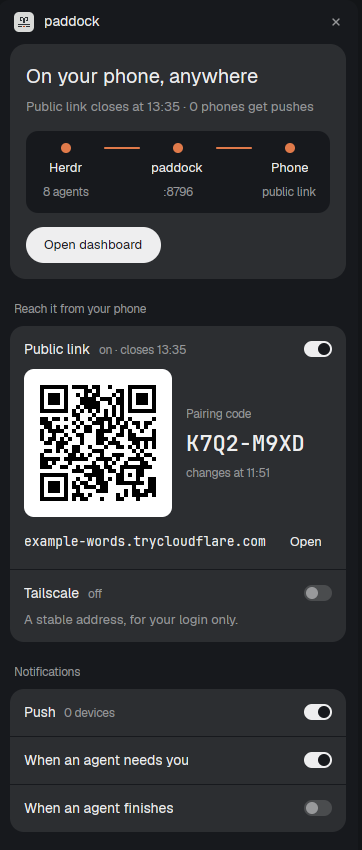
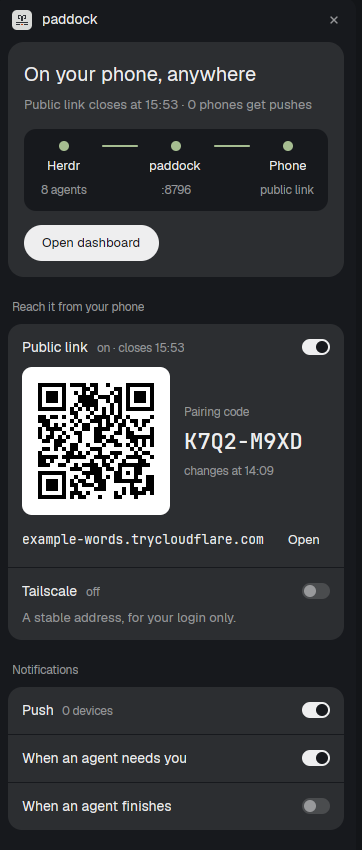
fix: live routes in the Herdr panel are green, and the gallery phone shows agents at work
The route strip, the tab-bar dot and the backend dots were lit in paddock's
coral, which read as a warning beside Herdr's own status dots. They now use
the theme's green (`ansi2`), the colour Herdr's Settings gives a connected
machine, so they follow the theme too.

The gallery card's phone was a single permission prompt. It is now the
agent list from `paddock --demo`: one prompt, two finished and two working
agents, so a visitor sees which agents are running. The panel shot is
retaken with the green routes, from a fake `paddock status --json`.

diff --git a/herdr/paddock/mods/paddock/main.js b/herdr/paddock/mods/paddock/main.js
@@ -87,10 +87,10 @@ function opener() {
 // Herdr's theme tokens, in the "true-black flat" app style: elevation by lightness alone (cards on
 // `raised`, what sits inside them sunk back to `background`; `surface` is the ground itself in some
 // themes, so it is not a step), no borders and no shadows on panels, the primary action made
-// primary by inversion (`solid` on `solid_foreground`), and ONE data hue: paddock's coral, the lit
-// rail of its mark, on the routes that are live and on nothing else.
+// primary by inversion (`solid` on `solid_foreground`), and ONE data hue: the theme's own green
+// (`ansi2`) on the routes that are live and on nothing else. Not paddock's coral, which read as a
+// warning, and not the theme's `done`, which is blue in some themes: live means "go".
 
-const LIVE = "#e07a4a";
 const icon = (name, size, color) => svg(`mods/paddock/${name}.svg`).size(size).flex_none().text_color(color);
 const dot = (color, size = 8) => div().w(size).h(size).flex_none().rounded_full().bg(color);
 
@@ -186,14 +186,14 @@ function qr(rows, cell = 4) {
 
 /**
  * The route a phone takes to the agents: Herdr, then paddock, then the phone. A segment is lit in
- * paddock's coral when it carries traffic, so "can my phone reach them?" is read before any word.
+ * the theme's green when it carries traffic, so "can my phone reach them?" is read before any word.
  */
 function route(t, nodes, links) {
   const node = ([label, caption, live]) => v_flex().flex_none().items_center().gap(4).w(76)
-    .child(dot(live ? LIVE : t.dim, 10))
+    .child(dot(live ? t.ansi2 : t.dim, 10))
     .child(div().text_size(S().body).font_weight(500).text_color(live ? t.foreground : t.muted).child(label))
     .child(div().text_size(S().meta).text_color(t.muted).truncate().child(caption));
-  const link = (live) => div().flex_1().h(2).mt(4).rounded_full().bg(live ? LIVE : t.input);
+  const link = (live) => div().flex_1().h(2).mt(4).rounded_full().bg(live ? t.ansi2 : t.input);
   return h_flex().items_start().px(2)
     .child(node(nodes[0])).child(link(links[0])).child(node(nodes[1])).child(link(links[1])).child(node(nodes[2]));
 }
@@ -203,7 +203,7 @@ function route(t, nodes, links) {
 function tabButton(t) {
   const node = find(layout(), PANEL), on = node && !node.hidden;
   const state = shared(STATE_KEY);
-  const color = state === "running" ? LIVE : state === "unknown" ? t.blocked : t.dim;
+  const color = state === "running" ? t.ansi2 : state === "unknown" ? t.blocked : t.dim;
   return h_flex().size_full().pr(10).items_center().justify_end().bg(t.chrome)
     .child(h_flex().id("toggle-paddock").h(26).px(8).gap(6).flex_none().items_center().rounded(6)
       .text_size(12).bg(on ? t.selected : t.chrome).text_color(on ? t.foreground : t.muted)
@@ -637,7 +637,7 @@ export default class Paddock extends View {
     const bridge = this.settings?.bridge?.enabled === true;
     const latest = h.latestKnown, current = h.version;
     const update = latest && current && latest !== current && !current.startsWith("0.0.0");
-    const backend = (on, label) => h_flex().gap(6).items_center().child(dot(on ? LIVE : t.dim, 6))
+    const backend = (on, label) => h_flex().gap(6).items_center().child(dot(on ? t.ansi2 : t.dim, 6))
       .child(div().text_size(S().body).text_color(on ? t.foreground : t.muted).child(label));
     return group(t, "paddock", [
       setting(t, { id: "bridge", title: "MCP bridge",

diff --git a/scripts/herdr-mod-preview.html b/scripts/herdr-mod-preview.html
@@ -7,7 +7,8 @@
 
   Every picture in it is synthetic: the panel is docs/images/herdr-panel.png
   (the mod reading a fake `paddock status --json` and `paddock --demo`), the
-  phone is the README's demo screenshot. No live session appears here.
+  phone is `paddock --demo` at 440x994, scrolled to one prompt, two finished
+  and two working agents (docs/images/09-agents-mixed.png). No live session appears here.
 -->
 <html>
   <head>
@@ -27,7 +28,7 @@
       p { font-size: 23px; line-height: 1.45; color: #a9a8a2; margin: 0 0 28px; max-width: 520px; }
       code { font-family: "Ubuntu Sans Mono", monospace; font-size: 19px; color: #ecebe6;
         background: #1c1c20; border: 1px solid #2c2c32; border-radius: 10px; padding: 12px 16px; display: inline-block; }
-      .phone { flex: none; width: 330px; height: 714px; border-radius: 44px; background: #26262b;
+      .phone { flex: none; width: 330px; height: 745px; border-radius: 44px; background: #26262b;
         padding: 12px; box-shadow: 0 30px 80px rgba(0,0,0,.55); }
       .phone img { width: 100%; height: 100%; object-fit: cover; object-position: top; border-radius: 34px; display: block; }
       .panel { flex: none; height: 760px; border-radius: 14px; overflow: hidden;
@@ -42,7 +43,7 @@
       <p>Start the dashboard, publish it on your tailnet or a quick tunnel, pair a phone from the QR, mute notifications. Beside your agents.</p>
       <code>paddock mod install --layout &lt;yours&gt;</code>
     </div>
-    <div class="phone"><img src="../docs/images/02-blocked.png" alt="" /></div>
+    <div class="phone"><img src="../docs/images/09-agents-mixed.png" alt="" /></div>
     <div class="panel"><img src="../docs/images/herdr-panel.png" alt="" /></div>
   </body>
 </html>

diff --git a/herdr/paddock/RECIPE.md b/herdr/paddock/RECIPE.md
@@ -23,15 +23,15 @@ paddock mod install --layout <your-layout>
 A column on the right, 400px, hidden until its button is pressed, in the "true-black flat" app
 style on Herdr's own theme tokens: elevation by lightness alone (cards on `raised`, what sits
 inside them sunk back to `background`), no borders or shadows on panels, the primary action as an
-inverted ink pill (`solid` on `solid_foreground`, 36px), and ONE data hue, paddock's coral
-`#e07a4a`, on live routes only.
+inverted ink pill (`solid` on `solid_foreground`, 36px), and ONE data hue, the theme's own
+green (`ansi2`), on live routes only.
 
 - **Header**, 44px on the ground: the paddock mark (20px) and "paddock", a close button.
 - **The card** that answers "can my phone reach my agents, and how?": a 20px semibold sentence
   ("On your phone, at your domain", "On your phone, anywhere", "On your phone, on your tailnet",
   "Only on this computer", "paddock is off"), one muted line under it with the finding (when the
   public link closes, how many phones get pushes), the **route**: Herdr, paddock and Phone as
-  three dots with a caption each (agents, port, which route), joined by 2px segments lit coral
+  three dots with a caption each (agents, port, which route), joined by 2px segments lit green
   when they carry traffic, on a sunk strip; then the one next action (Start paddock, Open a
   2-hour link, Open dashboard).
 - **Reach it from your phone**, one panel, rows split by a 1px groove in the ground's colour:
@@ -55,7 +55,7 @@ installed" / "needs cloudflared" with Get Tailscale / Get cloudflared (Install w
 macOS) and Check again, instead of a switch.
 
 A failed action leaves a card at the bottom with a `blocked` dot, the command's last lines and a
-close button. The tab-bar button is 26px high: the mark, "paddock", and a 6px dot, coral while
+close button. The tab-bar button is 26px high: the mark, "paddock", and a 6px dot, green while
 paddock runs.
 
 ## How it behaves
